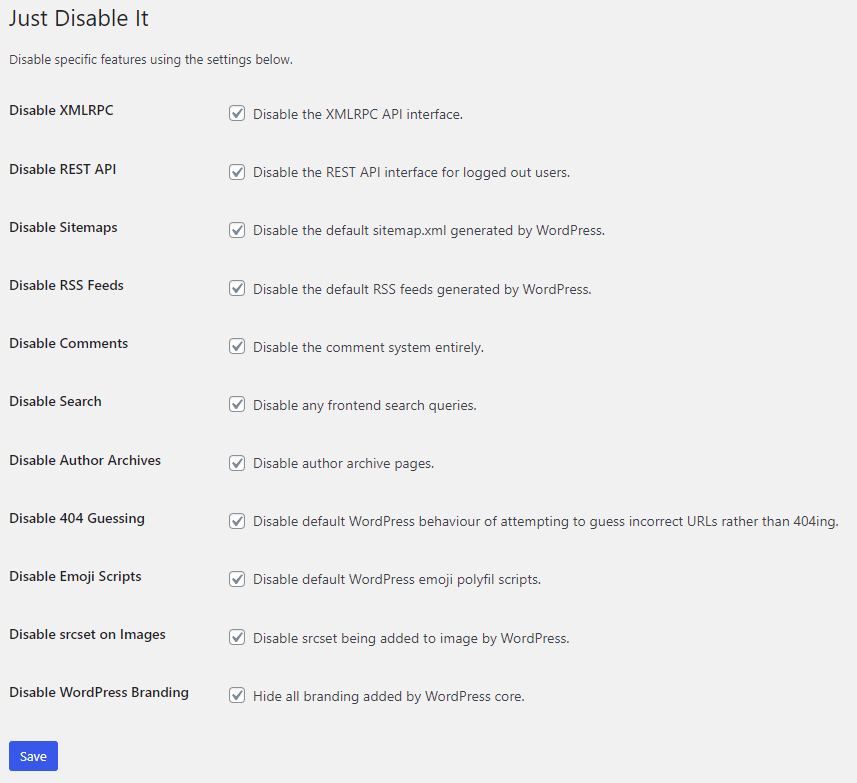
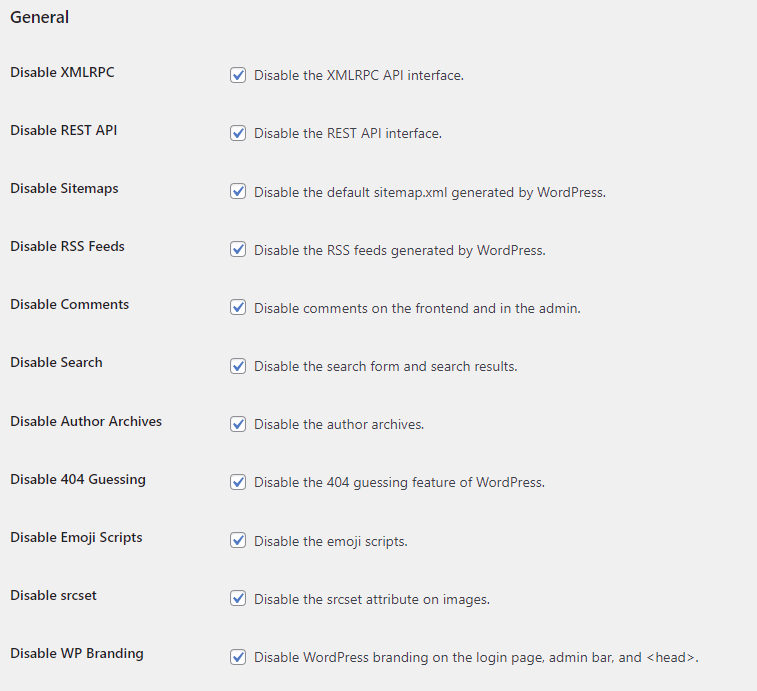
update readme

diff --git a/README.md b/README.md
@@ -4,6 +4,14 @@ _WordPress Plugin: Just Disable It_
 
 Disable WordPress features for a faster, cleaner, more secure experience.
 
+## Options
+
 Currently these features can be disabled:
 
+**General options**
+
 ![Just Disable It options](screenshot-1.png)
+
+**Disable admin menus**
+
+![Just Disable It options](screenshot-2.png)
